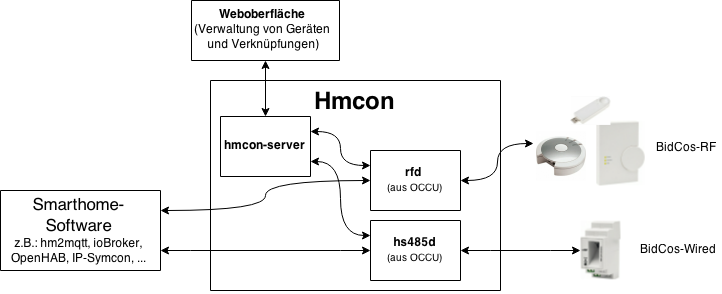
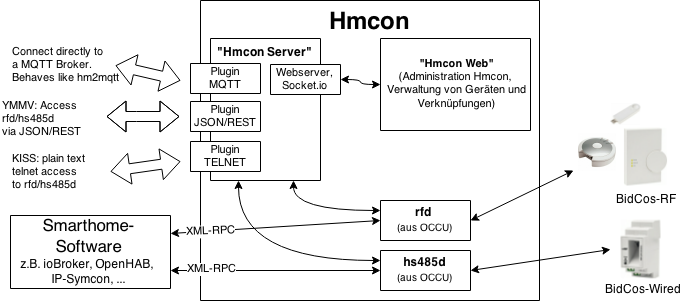
offer daemon start at the end of installation process change PREFIX to /opt/hmcon

diff --git a/README.md b/README.md
@@ -4,19 +4,13 @@ Homematic Funk-/Wired-Schnittstellen-Software
 
 ![architecture](img/hmcon-current.png)
 
-Hmcon dient als Schnittstelle zwischen Smarthome-Software wie z.B. hm2mqtt, ioBroker oder OpenHAB und Homematic Funk-
+Hmcon dient als Schnittstelle zwischen Smarthome-Software (wie z.B. hm2mqtt, ioBroker oder OpenHAB) und Homematic Funk-
 und Wired-Geräten. Hierfür kommen die Schnittstellenprozesse "rfd" und "hs485d" zum Einsatz, die
 [eQ-3](http://www.eq-3.de) als Teil der [OCCU](https://github.com/eq-3/occu) zur Verfügung stellt. Auf die Logikschicht
 "ReGa" und das HomeMatic WebUI wird bewusst verzichtet, Hmcon nutzt den
 [Homematic Manager](https://github.com/hobbyquaker/homematic-manager) als Weboberfläche zur Verwaltung von Geräten und
 Direktverknüpfungen.
 
-Bisher getestete Betriebssysteme: Debian Wheezy (armhf), Ubuntu 14.04 (amd64)
-
-Unterstützte Architekturen: armhf, i386, amd64
-
-Um Hmcon auf einem 64 Bit Betriebssystem auszuführen, ist es notwendig 32 Bit Bibliotheken zu installieren (siehe z.B.
-http://askubuntu.com/questions/454253/how-to-run-32-bit-app-in-ubuntu-64-bit).
 
 
 ## Installation
@@ -24,12 +18,31 @@ http://askubuntu.com/questions/454253/how-to-run-32-bit-app-in-ubuntu-64-bit).
 Hmcon wird mit einem interaktiven Shell-Script installiert, dass die benötigten Software-Komponenten herunterlädt sowie
 Konfigurationsdateien und Startscripte anlegt.
 
-
 ```Shell
 wget https://github.com/hobbyquaker/hmcon/raw/master/hmcon-setup.sh
 chmod a+x hmcon-setup.sh
 sudo hmcon-setup.sh
 ```
+
+Bisher auf folgenden Betriebssystemen getestet:
+
+* Debian Wheezy (armhf)
+* Ubuntu 14.04 (amd64)
+
+Unterstützte Architekturen: armhf, i386, amd64
+
+Um Hmcon auf einem 64Bit Betriebssystem auszuführen siehe
+https://www.thomas-krenn.com/de/wiki/Debian_7_32bit_Libraries oder http://askubuntu.com/questions/454253/how-to-run-32-bit-app-in-ubuntu-64-bit.
+
+
+## Todo
+
+* siehe Todo-Liste des Homematic Manager: https://github.com/hobbyquaker/homematic-manager/blob/master/Readme.md#Todo
+* hs485d testen, Startscript
+
+### Ausblick
+
+![architecture](img/hmcon-future.png)
 
 ## Lizenz
 
